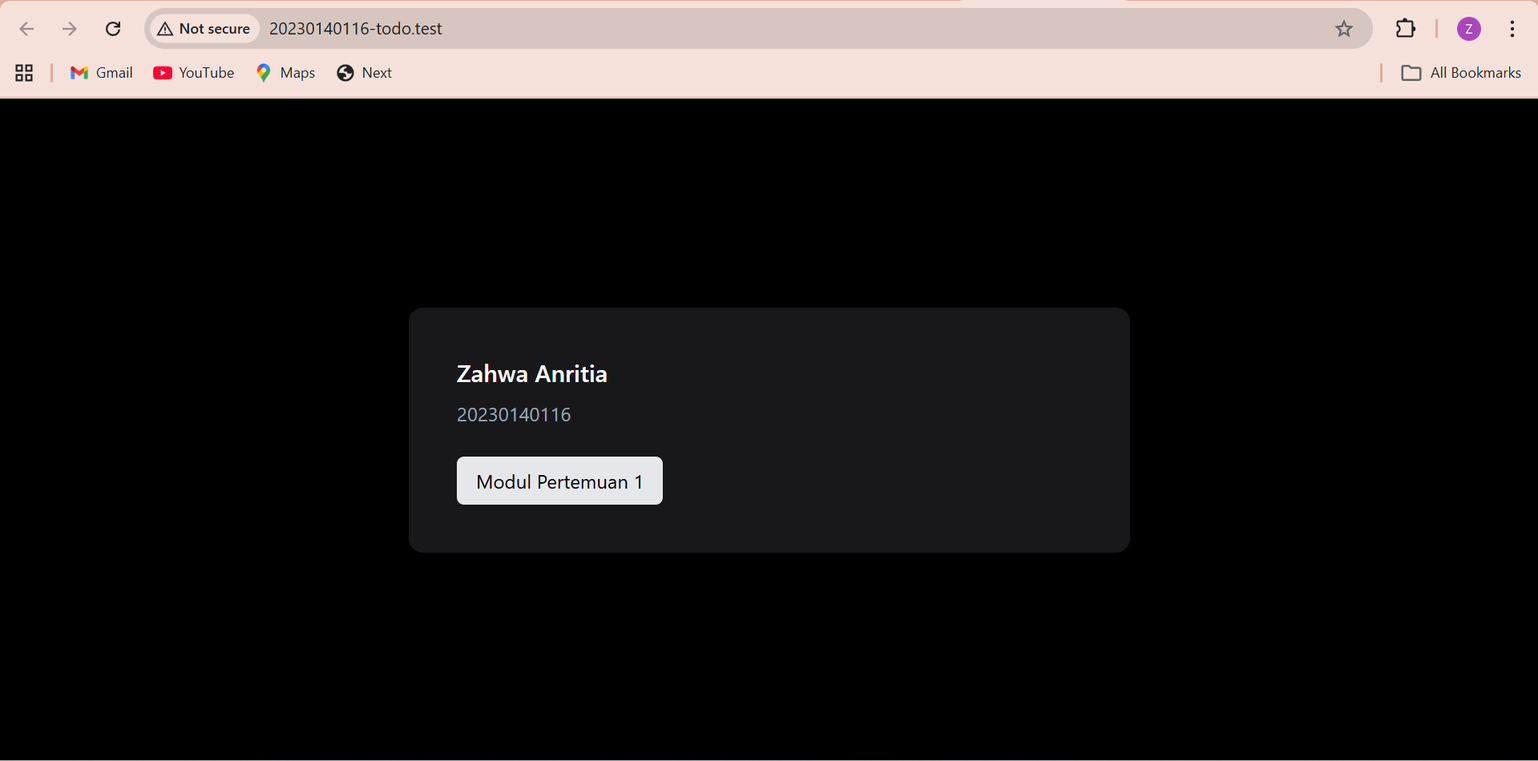
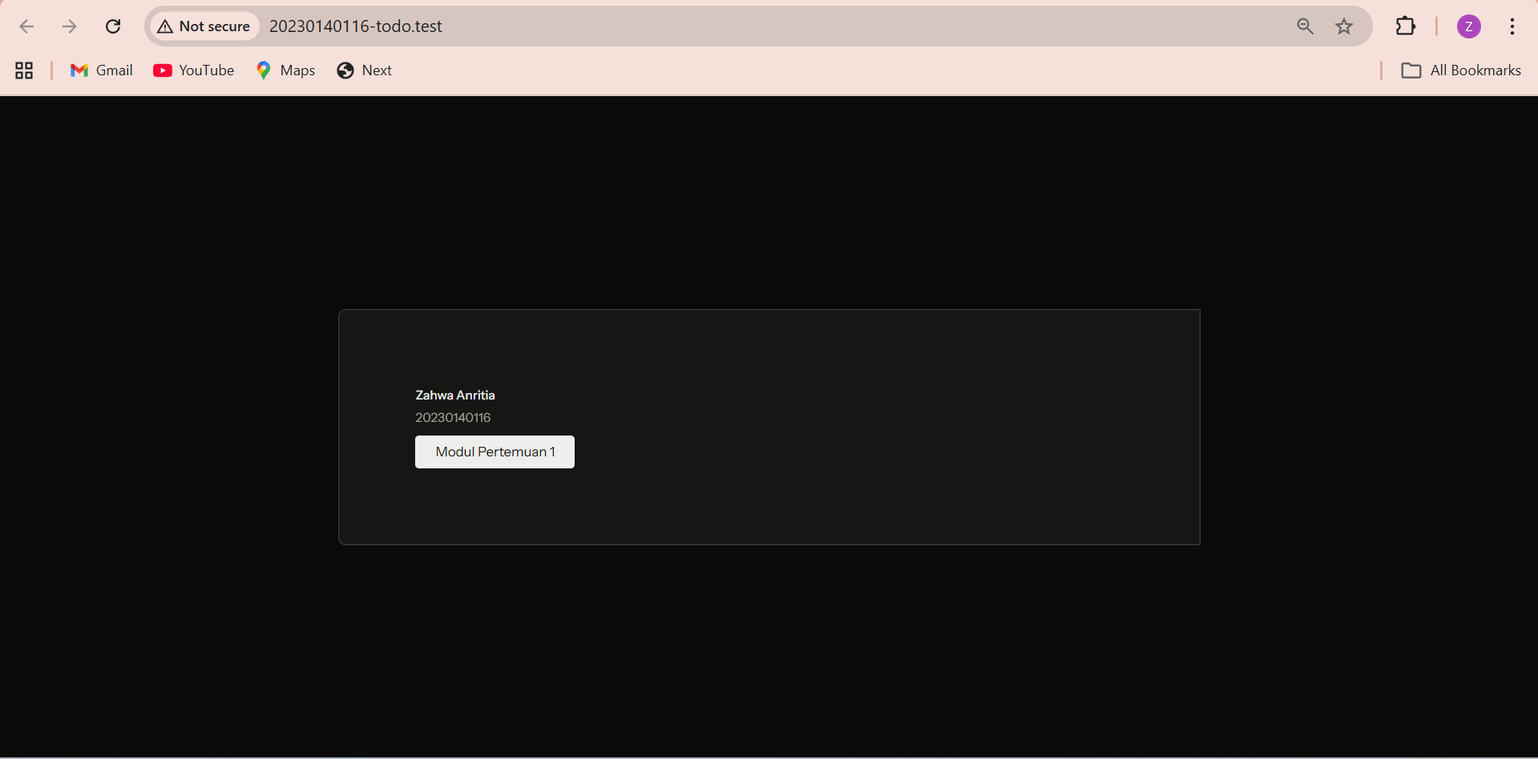
perbaikan

Changed region(s): [[0.0, 0.0, 1.0, 0.153], [0.246, 0.4589, 0.4304, 0.673], [0.9531, 0.0306, 0.9838, 0.0612]]

diff --git a/resources/views/welcome.blade.php b/resources/views/welcome.blade.php
@@ -1,30 +1,39 @@
 <!DOCTYPE html>
 <html lang="{{ str_replace('_', '-', app()->getLocale()) }}">
-<head>
-    <meta charset="utf-8">
-    <meta name="viewport" content="width=device-width, initial-scale=1">
-    <title>Modul Pertemuan 1</title>
+    <head>
+        <meta charset="utf-8">
+        <meta name="viewport" content="width=device-width, initial-scale=1">
 
-    <script src="https://cdn.tailwindcss.com"></script>
-</head>
-<body class="bg-[#0a0a0a] text-white flex items-center justify-center min-h-screen font-sans">
+        <title>{{ config('app.name', 'Laravel') }}</title>
 
-    <div class="w-full max-w-3xl bg-[#161615] border border-[#3E3E3A] rounded-lg p-12 shadow-xl">
+        <!-- Fonts -->
+        <link rel="preconnect" href="https://fonts.bunny.net">
+        <link href="https://fonts.bunny.net/css?family=instrument-sans:400,500,600" rel="stylesheet" />
 
-        <h1 class="text-2xl font-semibold text-[#EDEDEC] mb-2">
-            Zahwa Anritia
-        </h1>
-
-        <p class="text-lg text-[#A1A09A] mb-8">
-            20230140116
-        </p>
-
-        <a href="#" 
-           class="inline-block bg-[#FDFDFC] text-[#1b1b18] font-medium rounded-md py-2.5 px-6 transition duration-200 hover:bg-gray-200">
-            Modul Pertemuan 1
-        </a>
-
-    </div>
-
-</body>
+        <!-- Styles / Scripts -->
+        @if (file_exists(public_path('build/manifest.json')) || file_exists(public_path('hot')))
+            @vite(['resources/css/app.css', 'resources/js/app.js'])
+        @else
+            <style>
+                /*! tailwindcss v4.0.7 | MIT License | https://tailwindcss.com */@layer theme{:root,:host{--font-sans:'Instrument Sans',ui-sans-serif,system-ui,sans-serif,"Apple Color Emoji","Segoe UI Emoji","Segoe UI Symbol","Noto Color Emoji";--font-serif:ui-serif,Georgia,Cambria,"Times New Roman",Times,serif;--font-mono:ui-monospace,SFMono-Regular,Menlo,Monaco,Consolas,"Liberation Mono","Courier New",monospace;--color-red-50:oklch(.971 .013 17.38);--color-red-100:oklch(.936 .032 17.717);--color-red-200:oklch(.885 .062 18.334);--color-red-300:oklch(.808 .114 19.571);--color-red-400:oklch(.704 .191 22.216);--color-red-500:oklch(.637 .237 25.331);--color-red-600:oklch(.577 .245 27.325);--color-red-700:oklch(.505 .213 27.518);--color-red-800:oklch(.444 .177 26.899);--color-red-900:oklch(.396 .141 25.723);--color-red-950:oklch(.258 .092 26.042);--color-orange-50:oklch(.98 .016 73.684);--color-orange-100:oklch(.954 .038 75.164);--color-orange-200:oklch(.901 .076 70.697);--color-orange-300:oklch(.837 .128 66.29);--color-orange-400:oklch(.75 .183 55.934);--color-orange-500:oklch(.705 .213 47.604);--color-orange-600:oklch(.646 .222 41.116);--color-orange-700:oklch(.553 .195 38.402);--color-orange-800:oklch(.47 .157 37.304);--color-orange-900:oklch(.408 .123 38.172);--color-orange-950:oklch(.266 .079 36.259);--color-amber-50:oklch(.987 .022 95.277);--color-amber-100:oklch(.962 .059 95.617);--color-amber-200:oklch(.924 .12 95.746);--color-amber-300:oklch(.879 .169 91.605);--color-amber-400:oklch(.828 .189 84.429);--color-amber-500:oklch(.769 .188 70.08);--color-amber-600:oklch(.666 .179 58.318);--color-amber-700:oklch(.555 .163 48.998);--color-amber-800:oklch(.473 .137 46.201);--color-amber-900:oklch(.414 .112 45.904);--color-amber-950:oklch(.279 .077 45.635);--color-yellow-50:oklch(.987 .026 102.212);--color-yellow-100:oklch(.973 .071 103.193);--color-yellow-200:oklch(.945 .129 101.54);--color-yellow-300:oklch(.905 .182 98.111);--color-yellow-400:oklch(.852 .199 91.936);--color-yellow-500:oklch(.795 .184 86.047);--color-yellow-600:oklch(.681 .162 75.834);--color-yellow-700:oklch(.554 .135 66.442);--color-yellow-800:oklch(.476 .114 61.907);--color-yellow-900:oklch(.421 .095 57.708);--color-yellow-950:oklch(.286 .066 53.813);--color-lime-50:oklch(.986 .031 120.757);--color-lime-100:oklch(.967 .067 122.328);--color-lime-200:oklch(.938 .127 124.321);--color-lime-300:oklch(.897 .196 126.665);--color-lime-400:oklch(.841 .238 128.85);--color-lime-500:oklch(.768 .233 130.85);--color-lime-600:oklch(.648 .2 131.684);--color-lime-700:oklch(.532 .157 131.589);--color-lime-800:oklch(.453 .124 130.933);--color-lime-900:oklch(.405 .101 131.063);--color-lime-950:oklch(.274 .072 132.109);--color-green-50:oklch(.982 .018 155.826);--color-green-100:oklch(.962 .044 156.743);--color-green-200:oklch(.925 .084 155.995);--color-green-300:oklch(.871 .15 154.449);--color-green-400:oklch(.792 .209 151.711);--color-green-500:oklch(.723 .219 149.579);--color-green-600:oklch(.627 .194 149.214);--color-green-700:oklch(.527 .154 150.069);--color-green-800:oklch(.448 .119 151.328);--color-green-900:oklch(.393 .095 152.535);--color-green-950:oklch(.266 .065 152.934);--color-emerald-50:oklch(.979 .021 166.113);--color-emerald-100:oklch(.95 .052 163.051);--color-emerald-200:oklch(.905 .093 164.15);--color-emerald-300:oklch(.845 .143 164.978);--color-emerald-400:oklch(.765 .177 163.223);--color-emerald-500:oklch(.696 .17 162.48);--color-emerald-600:oklch(.596 .145 163.225);--color-emerald-700:oklch(.508 .118 165.612);--color-emerald-800:oklch(.432 .095 166.913);--color-emerald-900:oklch(.378 .077 168.94);--color-emerald-950:oklch(.262 .051 172.552);--color-teal-50:oklch(.984 .014 180.72);--color-teal-100:oklch(.953 .051 180.801);--color-teal-200:oklch(.91 .096 180.426);--color-teal-300:oklch(.855 .138 181.071);--color-teal-400:oklch(.777 .152 181.912);--color-teal-500:oklch(.704 .14 182.503);--color-teal-600:oklch(.6 .118 184.704);--color-teal-700:oklch(.511 .096 186.391);--color-teal-800:oklch(.437 .078 188.216);--color-teal-900:oklch(.386 .063 188.416);--color-teal-950:oklch(.277 .046 192.524);--color-cyan-50:oklch(.984 .019 200.873);--color-cyan-100:oklch(.956 .045 203.388);--color-cyan-200:oklch(.917 .08 205.041);--color-cyan-300:oklch(.865 .127 207.078);--color-cyan-400:oklch(.789 .154 211.53);--color-cyan-500:oklch(.715 .143 215.221);--color-cyan-600:oklch(.609 .126 221.723);--color-cyan-700:oklch(.52 .105 223.128);--color-cyan-800:oklch(.45 .085 224.283);--color-cyan-900:oklch(.398 .07 227.392);--color-cyan-950:oklch(.302 .056 229.695);--color-sky-50:oklch(.977 .013 236.62);--color-sky-100:oklch(.951 .026 236.824);--color-sky-200:oklch(.901 .058 230.902);--color-sky-300:oklch(.828 .111 230.318);--color-sky-400:oklch(.746 .16 232.661);--color-sky-500:oklch(.685 .169 237.323);--color-sky-600:oklch(.588 .158 241.966);--color-sky-700:oklch(.5 .134 242.749);--color-sky-800:oklch(.443 .11 240.79);--color-sky-900:oklch(.391 .09 240.876);--color-sky-950:oklch(.293 .066 243.157);--color-blue-50:oklch(.97 .014 254.604);--color-blue-100:oklch(.932 .032 255.585);--color-blue-200:oklch(.882 .059 254.128);--color-blue-300:oklch(.809 .105 251.813);--color-blue-400:oklch(.707 .165 254.624);--color-blue-500:oklch(.623 .214 259.815);--color-blue-600:oklch(.546 .245 262.881);--color-blue-700:oklch(.488 .243 264.376);--color-blue-800:oklch(.424 .199 265.638);--color-blue-900:oklch(.379 .146 265.522);--color-blue-950:oklch(.282 .091 267.935);--color-indigo-50:oklch(.962 .018 272.314);--color-indigo-100:oklch(.93 .034 272.788);--color-indigo-200:oklch(.87 .065 274.039);--color-indigo-300:oklch(.785 .115 274.713);--color-indigo-400:oklch(.673 .182 276.935);--color-indigo-500:oklch(.585 .233 277.117);--color-indigo-600:oklch(.511 .262 276.966);--color-indigo-700:oklch(.457 .24 277.023);--color-indigo-800:oklch(.398 .195 277.366);--color-indigo-900:oklch(.359 .144 278.697);--color-indigo-950:oklch(.257 .09 281.288);--color-violet-50:oklch(.969 .016 293.756);--color-violet-100:oklch(.943 .029 294.588);--color-violet-200:oklch(.894 .057 293.283);--color-violet-300:oklch(.811 .111 293.571);--color-violet-400:oklch(.702 .183 293.541);--color-violet-500:oklch(.606 .25 292.717);--color-violet-600:oklch(.541 .281 293.009);--color-violet-700:oklch(.491 .27 292.581);--color-violet-800:oklch(.432 .232 292.759);--color-violet-900:oklch(.38 .189 293.745);--color-violet-950:oklch(.283 .141 291.089);--color-purple-50:oklch(.977 .014 308.299);--color-purple-100:oklch(.946 .033 307.174);--color-purple-200:oklch(.902 .063 306.703);--color-purple-300:oklch(.827 .119 306.383);--color-purple-400:oklch(.714 .203 305.504);--color-purple-500:oklch(.627 .265 303.9);--color-purple-600:oklch(.558 .288 302.321);--color-purple-700:oklch(.496 .265 301.924);--color-purple-800:oklch(.438 .218 303.724);--color-purple-900:oklch(.381 .176 304.987);--color-purple-950:oklch(.291 .149 302.717);--color-fuchsia-50:oklch(.977 .017 320.058);--color-fuchsia-100:oklch(.952 .037 318.852);--color-fuchsia-200:oklch(.903 .076 319.62);--color-fuchsia-300:oklch(.833 .145 321.434);--color-fuchsia-400:oklch(.74 .238 322.16);--color-fuchsia-500:oklch(.667 .295 322.15);--color-fuchsia-600:oklch(.591 .293 322.896);--color-fuchsia-700:oklch(.518 .253 323.949);--color-fuchsia-800:oklch(.452 .211 324.591);--color-fuchsia-900:oklch(.401 .17 325.612);--color-fuchsia-950:oklch(.293 .136 325.661);--color-pink-50:oklch(.971 .014 343.198);--color-pink-100:oklch(.948 .028 342.258);--color-pink-200:oklch(.899 .061 343.231);--color-pink-300:oklch(.823 .12 346.018);--color-pink-400:oklch(.718 .202 349.761);--color-pink-500:oklch(.656 .241 354.308);--color-pink-600:oklch(.592 .249 .584);--color-pink-700:oklch(.525 .223 3.958);--color-pink-800:oklch(.459 .187 3.815);--color-pink-900:oklch(.408 .153 2.432);--color-pink-950:oklch(.284 .109 3.907);--color-rose-50:oklch(.969 .015 12.422);--color-rose-100:oklch(.941 .03 12.58);--color-rose-200:oklch(.892 .058 10.001);--color-rose-300:oklch(.81 .117 11.638);--color-rose-400:oklch(.712 .194 13.428);--color-rose-500:oklch(.645 .246 16.439);--color-rose-600:oklch(.586 .253 17.585);--color-rose-700:oklch(.514 .222 16.935);--color-rose-800:oklch(.455 .188 13.697);--color-rose-900:oklch(.41 .159 10.272);--color-rose-950:oklch(.271 .105 12.094);--color-slate-50:oklch(.984 .003 247.858);--color-slate-100:oklch(.968 .007 247.896);--color-slate-200:oklch(.929 .013 255.508);--color-slate-300:oklch(.869 .022 252.894);--color-slate-400:oklch(.704 .04 256.788);--color-slate-500:oklch(.554 .046 257.417);--color-slate-600:oklch(.446 .043 257.281);--color-slate-700:oklch(.372 .044 257.287);--color-slate-800:oklch(.279 .041 260.031);--color-slate-900:oklch(.208 .042 265.755);--color-slate-950:oklch(.129 .042 264.695);--color-gray-50:oklch(.985 .002 247.839);--color-gray-100:oklch(.967 .003 264.542);--color-gray-200:oklch(.928 .006 264.531);--color-gray-300:oklch(.872 .01 258.338);--color-gray-400:oklch(.707 .022 261.325);--color-gray-500:oklch(.551 .027 264.364);--color-gray-600:oklch(.446 .03 256.802);--color-gray-700:oklch(.373 .034 259.733);--color-gray-800:oklch(.278 .033 256.848);--color-gray-900:oklch(.21 .034 264.665);--color-gray-950:oklch(.13 .028 261.692);--color-zinc-50:oklch(.985 0 0);--color-zinc-100:oklch(.967 .001 286.375);--color-zinc-200:oklch(.92 .004 286.32);--color-zinc-300:oklch(.871 .006 286.286);--color-zinc-400:oklch(.705 .015 286.067);--color-zinc-500:oklch(.552 .016 285.938);--color-zinc-600:oklch(.442 .017 285.786);--color-zinc-700:oklch(.37 .013 285.805);--color-zinc-800:oklch(.274 .006 286.033);--color-zinc-900:oklch(.21 .006 285.885);--color-zinc-950:oklch(.141 .005 285.823);--color-neutral-50:oklch(.985 0 0);--color-neutral-100:oklch(.97 0 0);--color-neutral-200:oklch(.922 0 0);--color-neutral-300:oklch(.87 0 0);--color-neutral-400:oklch(.708 0 0);--color-neutral-500:oklch(.556 0 0);--color-neutral-600:oklch(.439 0 0);--color-neutral-700:oklch(.371 0 0);--color-neutral-800:oklch(.269 0 0);--color-neutral-900:oklch(.205 0 0);--color-neutral-950:oklch(.145 0 0);--color-stone-50:oklch(.985 .001 106.423);--color-stone-100:oklch(.97 .001 106.424);--color-stone-200:oklch(.923 .003 48.717);--color-stone-300:oklch(.869 .005 56.366);--color-stone-400:oklch(.709 .01 56.259);--color-stone-500:oklch(.553 .013 58.071);--color-stone-600:oklch(.444 .011 73.639);--color-stone-700:oklch(.374 .01 67.558);--color-stone-800:oklch(.268 .007 34.298);--color-stone-900:oklch(.216 .006 56.043);--color-stone-950:oklch(.147 .004 49.25);--color-black:#000;--color-white:#fff;--spacing:.25rem;--breakpoint-sm:40rem;--breakpoint-md:48rem;--breakpoint-lg:64rem;--breakpoint-xl:80rem;--breakpoint-2xl:96rem;--container-3xs:16rem;--container-2xs:18rem;--container-xs:20rem;--container-sm:24rem;--container-md:28rem;--container-lg:32rem;--container-xl:36rem;--container-2xl:42rem;--container-3xl:48rem;--container-4xl:56rem;--container-5xl:64rem;--container-6xl:72rem;--container-7xl:80rem;--text-xs:.75rem;--text-xs--line-height:calc(1/.75);--text-sm:.875rem;--text-sm--line-height:calc(1.25/.875);--text-base:1rem;--text-base--line-height: 1.5 ;--text-lg:1.125rem;--text-lg--line-height:calc(1.75/1.125);--text-xl:1.25rem;--text-xl--line-height:calc(1.75/1.25);--text-2xl:1.5rem;--text-2xl--line-height:calc(2/1.5);--text-3xl:1.875rem;--text-3xl--line-height: 1.2 ;--text-4xl:2.25rem;--text-4xl--line-height:calc(2.5/2.25);--text-5xl:3rem;--text-5xl--line-height:1;--text-6xl:3.75rem;--text-6xl--line-height:1;--text-7xl:4.5rem;--text-7xl--line-height:1;--text-8xl:6rem;--text-8xl--line-height:1;--text-9xl:8rem;--text-9xl--line-height:1;--font-weight-thin:100;--font-weight-extralight:200;--font-weight-light:300;--font-weight-normal:400;--font-weight-medium:500;--font-weight-semibold:600;--font-weight-bold:700;--font-weight-extrabold:800;--font-weight-black:900;--tracking-tighter:-.05em;--tracking-tight:-.025em;--tracking-normal:0em;--tracking-wide:.025em;--tracking-wider:.05em;--tracking-widest:.1em;--leading-tight:1.25;--leading-snug:1.375;--leading-normal:1.5;--leading-relaxed:1.625;--leading-loose:2;--radius-xs:.125rem;--radius-sm:.25rem;--radius-md:.375rem;--radius-lg:.5rem;--radius-xl:.75rem;--radius-2xl:1rem;--radius-3xl:1.5rem;--radius-4xl:2rem;--shadow-2xs:0 1px #0000000d;--shadow-xs:0 1px 2px 0 #0000000d;--shadow-sm:0 1px 3px 0 #0000001a,0 1px 2px -1px #0000001a;--shadow-md:0 4px 6px -1px #0000001a,0 2px 4px -2px #0000001a;--shadow-lg:0 10px 15px -3px #0000001a,0 4px 6px -4px #0000001a;--shadow-xl:0 20px 25px -5px #0000001a,0 8px 10px -6px #0000001a;--shadow-2xl:0 25px 50px -12px #00000040;--inset-shadow-2xs:inset 0 1px #0000000d;--inset-shadow-xs:inset 0 1px 1px #0000000d;--inset-shadow-sm:inset 0 2px 4px #0000000d;--drop-shadow-xs:0 1px 1px #0000000d;--drop-shadow-sm:0 1px 2px #00000026;--drop-shadow-md:0 3px 3px #0000001f;--drop-shadow-lg:0 4px 4px #00000026;--drop-shadow-xl:0 9px 7px #0000001a;--drop-shadow-2xl:0 25px 25px #00000026;--ease-in:cubic-bezier(.4,0,1,1);--ease-out:cubic-bezier(0,0,.2,1);--ease-in-out:cubic-bezier(.4,0,.2,1);--animate-spin:spin 1s linear infinite;--animate-ping:ping 1s cubic-bezier(0,0,.2,1)infinite;--animate-pulse:pulse 2s cubic-bezier(.4,0,.6,1)infinite;--animate-bounce:bounce 1s infinite;--blur-xs:4px;--blur-sm:8px;--blur-md:12px;--blur-lg:16px;--blur-xl:24px;--blur-2xl:40px;--blur-3xl:64px;--perspective-dramatic:100px;--perspective-near:300px;--perspective-normal:500px;--perspective-midrange:800px;--perspective-distant:1200px;--aspect-video:16/9;--default-transition-duration:.15s;--default-transition-timing-function:cubic-bezier(.4,0,.2,1);--default-font-family:var(--font-sans);--default-font-feature-settings:var(--font-sans--font-feature-settings);--default-font-variation-settings:var(--font-sans--font-variation-settings);--default-mono-font-family:var(--font-mono);--default-mono-font-feature-settings:var(--font-mono--font-feature-settings);--default-mono-font-variation-settings:var(--font-mono--font-variation-settings)}}@layer base{*,:after,:before,::backdrop{box-sizing:border-box;border:0 solid;margin:0;padding:0}::file-selector-button{box-sizing:border-box;border:0 solid;margin:0;padding:0}html,:host{-webkit-text-size-adjust:100%;-moz-tab-size:4;tab-size:4;line-height:1.5;font-family:var(--default-font-family,ui-sans-serif,system-ui,sans-serif,"Apple Color Emoji","Segoe UI Emoji","Segoe UI Symbol","Noto Color Emoji");font-feature-settings:var(--default-font-feature-settings,normal);font-variation-settings:var(--default-font-variation-settings,normal);-webkit-tap-highlight-color:transparent}body{line-height:inherit}hr{height:0;color:inherit;border-top-width:1px}abbr:where([title]){-webkit-text-decoration:underline dotted;text-decoration:underline dotted}h1,h2,h3,h4,h5,h6{font-size:inherit;font-weight:inherit}a{color:inherit;-webkit-text-decoration:inherit;text-decoration:inherit}b,strong{font-weight:bolder}code,kbd,samp,pre{font-family:var(--default-mono-font-family,ui-monospace,SFMono-Regular,Menlo,Monaco,Consolas,"Liberation Mono","Courier New",monospace);font-feature-settings:var(--default-mono-font-feature-settings,normal);font-variation-settings:var(--default-mono-font-variation-settings,normal);font-size:1em}small{font-size:80%}sub,sup{vertical-align:baseline;font-size:75%;line-height:0;position:relative}sub{bottom:-.25em}sup{top:-.5em}table{text-indent:0;border-color:inherit;border-collapse:collapse}:-moz-focusring{outline:auto}progress{vertical-align:baseline}summary{display:list-item}ol,ul,menu{list-style:none}img,svg,video,canvas,audio,iframe,embed,object{vertical-align:middle;display:block}img,video{max-width:100%;height:auto}button,input,select,optgroup,textarea{font:inherit;font-feature-settings:inherit;font-variation-settings:inherit;letter-spacing:inherit;color:inherit;opacity:1;background-color:#0000;border-radius:0}::file-selector-button{font:inherit;font-feature-settings:inherit;font-variation-settings:inherit;letter-spacing:inherit;color:inherit;opacity:1;background-color:#0000;border-radius:0}:where(select:is([multiple],[size])) optgroup{font-weight:bolder}:where(select:is([multiple],[size])) optgroup option{padding-inline-start:20px}::file-selector-button{margin-inline-end:4px}::placeholder{opacity:1;color:color-mix(in oklab,currentColor 50%,transparent)}textarea{resize:vertical}::-webkit-search-decoration{-webkit-appearance:none}::-webkit-date-and-time-value{min-height:1lh;text-align:inherit}::-webkit-datetime-edit{display:inline-flex}::-webkit-datetime-edit-fields-wrapper{padding:0}::-webkit-datetime-edit{padding-block:0}::-webkit-datetime-edit-year-field{padding-block:0}::-webkit-datetime-edit-month-field{padding-block:0}::-webkit-datetime-edit-day-field{padding-block:0}::-webkit-datetime-edit-hour-field{padding-block:0}::-webkit-datetime-edit-minute-field{padding-block:0}::-webkit-datetime-edit-second-field{padding-block:0}::-webkit-datetime-edit-millisecond-field{padding-block:0}::-webkit-datetime-edit-meridiem-field{padding-block:0}:-moz-ui-invalid{box-shadow:none}button,input:where([type=button],[type=reset],[type=submit]){-webkit-appearance:button;-moz-appearance:button;appearance:button}::file-selector-button{-webkit-appearance:button;-moz-appearance:button;appearance:button}::-webkit-inner-spin-button{height:auto}::-webkit-outer-spin-button{height:auto}[hidden]:where(:not([hidden=until-found])){display:none!important}}@layer components;@layer utilities{.absolute{position:absolute}.relative{position:relative}.static{position:static}.inset-0{inset:calc(var(--spacing)*0)}.-mt-\[4\.9rem\]{margin-top:-4.9rem}.-mb-px{margin-bottom:-1px}.mb-1{margin-bottom:calc(var(--spacing)*1)}.mb-2{margin-bottom:calc(var(--spacing)*2)}.mb-4{margin-bottom:calc(var(--spacing)*4)}.mb-6{margin-bottom:calc(var(--spacing)*6)}.-ml-8{margin-left:calc(var(--spacing)*-8)}.flex{display:flex}.hidden{display:none}.inline-block{display:inline-block}.inline-flex{display:inline-flex}.table{display:table}.aspect-\[335\/376\]{aspect-ratio:335/376}.h-1{height:calc(var(--spacing)*1)}.h-1\.5{height:calc(var(--spacing)*1.5)}.h-2{height:calc(var(--spacing)*2)}.h-2\.5{height:calc(var(--spacing)*2.5)}.h-3{height:calc(var(--spacing)*3)}.h-3\.5{height:calc(var(--spacing)*3.5)}.h-14{height:calc(var(--spacing)*14)}.h-14\.5{height:calc(var(--spacing)*14.5)}.min-h-screen{min-height:100vh}.w-1{width:calc(var(--spacing)*1)}.w-1\.5{width:calc(var(--spacing)*1.5)}.w-2{width:calc(var(--spacing)*2)}.w-2\.5{width:calc(var(--spacing)*2.5)}.w-3{width:calc(var(--spacing)*3)}.w-3\.5{width:calc(var(--spacing)*3.5)}.w-\[448px\]{width:448px}.w-full{width:100%}.max-w-\[335px\]{max-width:335px}.max-w-none{max-width:none}.flex-1{flex:1}.shrink-0{flex-shrink:0}.translate-y-0{--tw-translate-y:calc(var(--spacing)*0);translate:var(--tw-translate-x)var(--tw-translate-y)}.transform{transform:var(--tw-rotate-x)var(--tw-rotate-y)var(--tw-rotate-z)var(--tw-skew-x)var(--tw-skew-y)}.flex-col{flex-direction:column}.flex-col-reverse{flex-direction:column-reverse}.items-center{align-items:center}.justify-center{justify-content:center}.justify-end{justify-content:flex-end}.gap-3{gap:calc(var(--spacing)*3)}.gap-4{gap:calc(var(--spacing)*4)}:where(.space-x-1>:not(:last-child)){--tw-space-x-reverse:0;margin-inline-start:calc(calc(var(--spacing)*1)*var(--tw-space-x-reverse));margin-inline-end:calc(calc(var(--spacing)*1)*calc(1 - var(--tw-space-x-reverse)))}.overflow-hidden{overflow:hidden}.rounded-full{border-radius:3.40282e38px}.rounded-sm{border-radius:var(--radius-sm)}.rounded-t-lg{border-top-left-radius:var(--radius-lg);border-top-right-radius:var(--radius-lg)}.rounded-br-lg{border-bottom-right-radius:var(--radius-lg)}.rounded-bl-lg{border-bottom-left-radius:var(--radius-lg)}.border{border-style:var(--tw-border-style);border-width:1px}.border-\[\#19140035\]{border-color:#19140035}.border-\[\#e3e3e0\]{border-color:#e3e3e0}.border-black{border-color:var(--color-black)}.border-transparent{border-color:#0000}.bg-\[\#1b1b18\]{background-color:#1b1b18}.bg-\[\#FDFDFC\]{background-color:#fdfdfc}.bg-\[\#dbdbd7\]{background-color:#dbdbd7}.bg-\[\#fff2f2\]{background-color:#fff2f2}.bg-white{background-color:var(--color-white)}.p-6{padding:calc(var(--spacing)*6)}.px-5{padding-inline:calc(var(--spacing)*5)}.py-1{padding-block:calc(var(--spacing)*1)}.py-1\.5{padding-block:calc(var(--spacing)*1.5)}.py-2{padding-block:calc(var(--spacing)*2)}.pb-12{padding-bottom:calc(var(--spacing)*12)}.text-sm{font-size:var(--text-sm);line-height:var(--tw-leading,var(--text-sm--line-height))}.text-\[13px\]{font-size:13px}.leading-\[20px\]{--tw-leading:20px;line-height:20px}.leading-normal{--tw-leading:var(--leading-normal);line-height:var(--leading-normal)}.font-medium{--tw-font-weight:var(--font-weight-medium);font-weight:var(--font-weight-medium)}.text-\[\#1b1b18\]{color:#1b1b18}.text-\[\#706f6c\]{color:#706f6c}.text-\[\#F53003\],.text-\[\#f53003\]{color:#f53003}.text-white{color:var(--color-white)}.underline{text-decoration-line:underline}.underline-offset-4{text-underline-offset:4px}.opacity-100{opacity:1}.shadow-\[0px_0px_1px_0px_rgba\(0\,0\,0\,0\.03\)\,0px_1px_2px_0px_rgba\(0\,0\,0\,0\.06\)\]{--tw-shadow:0px 0px 1px 0px var(--tw-shadow-color,#00000008),0px 1px 2px 0px var(--tw-shadow-color,#0000000f);box-shadow:var(--tw-inset-shadow),var(--tw-inset-ring-shadow),var(--tw-ring-offset-shadow),var(--tw-ring-shadow),var(--tw-shadow)}.shadow-\[inset_0px_0px_0px_1px_rgba\(26\,26\,0\,0\.16\)\]{--tw-shadow:inset 0px 0px 0px 1px var(--tw-shadow-color,#1a1a0029);box-shadow:var(--tw-inset-shadow),var(--tw-inset-ring-shadow),var(--tw-ring-offset-shadow),var(--tw-ring-shadow),var(--tw-shadow)}.\!filter{filter:var(--tw-blur,)var(--tw-brightness,)var(--tw-contrast,)var(--tw-grayscale,)var(--tw-hue-rotate,)var(--tw-invert,)var(--tw-saturate,)var(--tw-sepia,)var(--tw-drop-shadow,)!important}.filter{filter:var(--tw-blur,)var(--tw-brightness,)var(--tw-contrast,)var(--tw-grayscale,)var(--tw-hue-rotate,)var(--tw-invert,)var(--tw-saturate,)var(--tw-sepia,)var(--tw-drop-shadow,)}.transition-all{transition-property:all;transition-timing-function:var(--tw-ease,var(--default-transition-timing-function));transition-duration:var(--tw-duration,var(--default-transition-duration))}.transition-opacity{transition-property:opacity;transition-timing-function:var(--tw-ease,var(--default-transition-timing-function));transition-duration:var(--tw-duration,var(--default-transition-duration))}.delay-300{transition-delay:.3s}.duration-750{--tw-duration:.75s;transition-duration:.75s}.not-has-\[nav\]\:hidden:not(:has(:is(nav))){display:none}.before\:absolute:before{content:var(--tw-content);position:absolute}.before\:top-0:before{content:var(--tw-content);top:calc(var(--spacing)*0)}.before\:top-1\/2:before{content:var(--tw-content);top:50%}.before\:bottom-0:before{content:var(--tw-content);bottom:calc(var(--spacing)*0)}.before\:bottom-1\/2:before{content:var(--tw-content);bottom:50%}.before\:left-\[0\.4rem\]:before{content:var(--tw-content);left:.4rem}.before\:border-l:before{content:var(--tw-content);border-left-style:var(--tw-border-style);border-left-width:1px}.before\:border-\[\#e3e3e0\]:before{content:var(--tw-content);border-color:#e3e3e0}@media (hover:hover){.hover\:border-\[\#1915014a\]:hover{border-color:#1915014a}.hover\:border-\[\#19140035\]:hover{border-color:#19140035}.hover\:border-black:hover{border-color:var(--color-black)}.hover\:bg-black:hover{background-color:var(--color-black)}}@media (width>=64rem){.lg\:-mt-\[6\.6rem\]{margin-top:-6.6rem}.lg\:mb-0{margin-bottom:calc(var(--spacing)*0)}.lg\:mb-6{margin-bottom:calc(var(--spacing)*6)}.lg\:-ml-px{margin-left:-1px}.lg\:ml-0{margin-left:calc(var(--spacing)*0)}.lg\:block{display:block}.lg\:aspect-auto{aspect-ratio:auto}.lg\:w-\[438px\]{width:438px}.lg\:max-w-4xl{max-width:var(--container-4xl)}.lg\:grow{flex-grow:1}.lg\:flex-row{flex-direction:row}.lg\:justify-center{justify-content:center}.lg\:rounded-t-none{border-top-left-radius:0;border-top-right-radius:0}.lg\:rounded-tl-lg{border-top-left-radius:var(--radius-lg)}.lg\:rounded-r-lg{border-top-right-radius:var(--radius-lg);border-bottom-right-radius:var(--radius-lg)}.lg\:rounded-br-none{border-bottom-right-radius:0}.lg\:p-8{padding:calc(var(--spacing)*8)}.lg\:p-20{padding:calc(var(--spacing)*20)}}@media (prefers-color-scheme:dark){.dark\:block{display:block}.dark\:hidden{display:none}.dark\:border-\[\#3E3E3A\]{border-color:#3e3e3a}.dark\:border-\[\#eeeeec\]{border-color:#eeeeec}.dark\:bg-\[\#0a0a0a\]{background-color:#0a0a0a}.dark\:bg-\[\#1D0002\]{background-color:#1d0002}.dark\:bg-\[\#3E3E3A\]{background-color:#3e3e3a}.dark\:bg-\[\#161615\]{background-color:#161615}.dark\:bg-\[\#eeeeec\]{background-color:#eeeeec}.dark\:text-\[\#1C1C1A\]{color:#1c1c1a}.dark\:text-\[\#A1A09A\]{color:#a1a09a}.dark\:text-\[\#EDEDEC\]{color:#ededec}.dark\:text-\[\#F61500\]{color:#f61500}.dark\:text-\[\#FF4433\]{color:#f43}.dark\:shadow-\[inset_0px_0px_0px_1px_\#fffaed2d\]{--tw-shadow:inset 0px 0px 0px 1px var(--tw-shadow-color,#fffaed2d);box-shadow:var(--tw-inset-shadow),var(--tw-inset-ring-shadow),var(--tw-ring-offset-shadow),var(--tw-ring-shadow),var(--tw-shadow)}.dark\:before\:border-\[\#3E3E3A\]:before{content:var(--tw-content);border-color:#3e3e3a}@media (hover:hover){.dark\:hover\:border-\[\#3E3E3A\]:hover{border-color:#3e3e3a}.dark\:hover\:border-\[\#62605b\]:hover{border-color:#62605b}.dark\:hover\:border-white:hover{border-color:var(--color-white)}.dark\:hover\:bg-white:hover{background-color:var(--color-white)}}}@starting-style{.starting\:translate-y-4{--tw-translate-y:calc(var(--spacing)*4);translate:var(--tw-translate-x)var(--tw-translate-y)}}@starting-style{.starting\:translate-y-6{--tw-translate-y:calc(var(--spacing)*6);translate:var(--tw-translate-x)var(--tw-translate-y)}}@starting-style{.starting\:opacity-0{opacity:0}}}@keyframes spin{to{transform:rotate(360deg)}}@keyframes ping{75%,to{opacity:0;transform:scale(2)}}@keyframes pulse{50%{opacity:.5}}@keyframes bounce{0%,to{animation-timing-function:cubic-bezier(.8,0,1,1);transform:translateY(-25%)}50%{animation-timing-function:cubic-bezier(0,0,.2,1);transform:none}}@property --tw-translate-x{syntax:"*";inherits:false;initial-value:0}@property --tw-translate-y{syntax:"*";inherits:false;initial-value:0}@property --tw-translate-z{syntax:"*";inherits:false;initial-value:0}@property --tw-rotate-x{syntax:"*";inherits:false;initial-value:rotateX(0)}@property --tw-rotate-y{syntax:"*";inherits:false;initial-value:rotateY(0)}@property --tw-rotate-z{syntax:"*";inherits:false;initial-value:rotateZ(0)}@property --tw-skew-x{syntax:"*";inherits:false;initial-value:skewX(0)}@property --tw-skew-y{syntax:"*";inherits:false;initial-value:skewY(0)}@property --tw-space-x-reverse{syntax:"*";inherits:false;initial-value:0}@property --tw-border-style{syntax:"*";inherits:false;initial-value:solid}@property --tw-leading{syntax:"*";inherits:false}@property --tw-font-weight{syntax:"*";inherits:false}@property --tw-shadow{syntax:"*";inherits:false;initial-value:0 0 #0000}@property --tw-shadow-color{syntax:"*";inherits:false}@property --tw-inset-shadow{syntax:"*";inherits:false;initial-value:0 0 #0000}@property --tw-inset-shadow-color{syntax:"*";inherits:false}@property --tw-ring-color{syntax:"*";inherits:false}@property --tw-ring-shadow{syntax:"*";inherits:false;initial-value:0 0 #0000}@property --tw-inset-ring-color{syntax:"*";inherits:false}@property --tw-inset-ring-shadow{syntax:"*";inherits:false;initial-value:0 0 #0000}@property --tw-ring-inset{syntax:"*";inherits:false}@property --tw-ring-offset-width{syntax:"<length>";inherits:false;initial-value:0}@property --tw-ring-offset-color{syntax:"*";inherits:false;initial-value:#fff}@property --tw-ring-offset-shadow{syntax:"*";inherits:false;initial-value:0 0 #0000}@property --tw-blur{syntax:"*";inherits:false}@property --tw-brightness{syntax:"*";inherits:false}@property --tw-contrast{syntax:"*";inherits:false}@property --tw-grayscale{syntax:"*";inherits:false}@property --tw-hue-rotate{syntax:"*";inherits:false}@property --tw-invert{syntax:"*";inherits:false}@property --tw-opacity{syntax:"*";inherits:false}@property --tw-saturate{syntax:"*";inherits:false}@property --tw-sepia{syntax:"*";inherits:false}@property --tw-drop-shadow{syntax:"*";inherits:false}@property --tw-duration{syntax:"*";inherits:false}@property --tw-content{syntax:"*";inherits:false;initial-value:""}
+            </style>
+        @endif
+    </head>
+    <body class="bg-[#FDFDFC] dark:bg-[#0a0a0a] text-[#1b1b18] flex p-6 lg:p-8 items-center lg:justify-center min-h-screen flex-col">
+        <div class="flex items-center justify-center w-full transition-opacity opacity-100 duration-750 lg:grow starting:opacity-0">
+            <main class="flex max-w-[335px] w-full flex-col-reverse lg:max-w-4xl lg:flex-row">
+                <div class="text-[13px] leading-[20px] flex-1 p-6 pb-12 lg:p-20 bg-white dark:bg-[#161615] dark:text-[#EDEDEC] shadow-[inset_0px_0px_0px_1px_rgba(26,26,0,0.16)] dark:shadow-[inset_0px_0px_0px_1px_#fffaed2d] rounded-bl-lg rounded-br-lg lg:rounded-tl-lg lg:rounded-br-none">
+                    <h1 class="mb-1 font-medium">Zahwa Anritia</h1>
+                    <p class="mb-2 text-[#706f6c] dark:text-[#A1A09A]">20230140116</p>
+                    <ul class="flex gap-3 text-sm leading-normal">
+                        <li>
+                            <a href="https://cloud.laravel.com" target="_blank" class="inline-block dark:bg-[#eeeeec] dark:border-[#eeeeec] dark:text-[#1C1C1A] dark:hover:bg-white dark:hover:border-white hover:bg-black hover:border-black px-5 py-1.5 bg-[#1b1b18] rounded-sm border border-black text-white text-sm leading-normal">
+                                Modul Pertemuan 1
+                            </a>
+                        </li>
+                    </ul>
+                </div>
+            </main>
+        </div>
+    </body>
 </html>

diff --git a/README.md b/README.md
@@ -1,12 +1,7 @@
 # PWF - Laravel 12
 
-## Identitas
-- Nama: Zahwa Anritia
-- NIM: 20230140116
-
 ## Deskripsi
 Project Laravel 12 untuk tugas praktikum PWF.
 
-Halaman utama yang sudah diubah lalu menambahkan NIM dan Nama pada welcome page.
 ![Tampilan Laravel](ss/ss.png)
-![Tampilan Laravel](ss/homepage.png)
+
